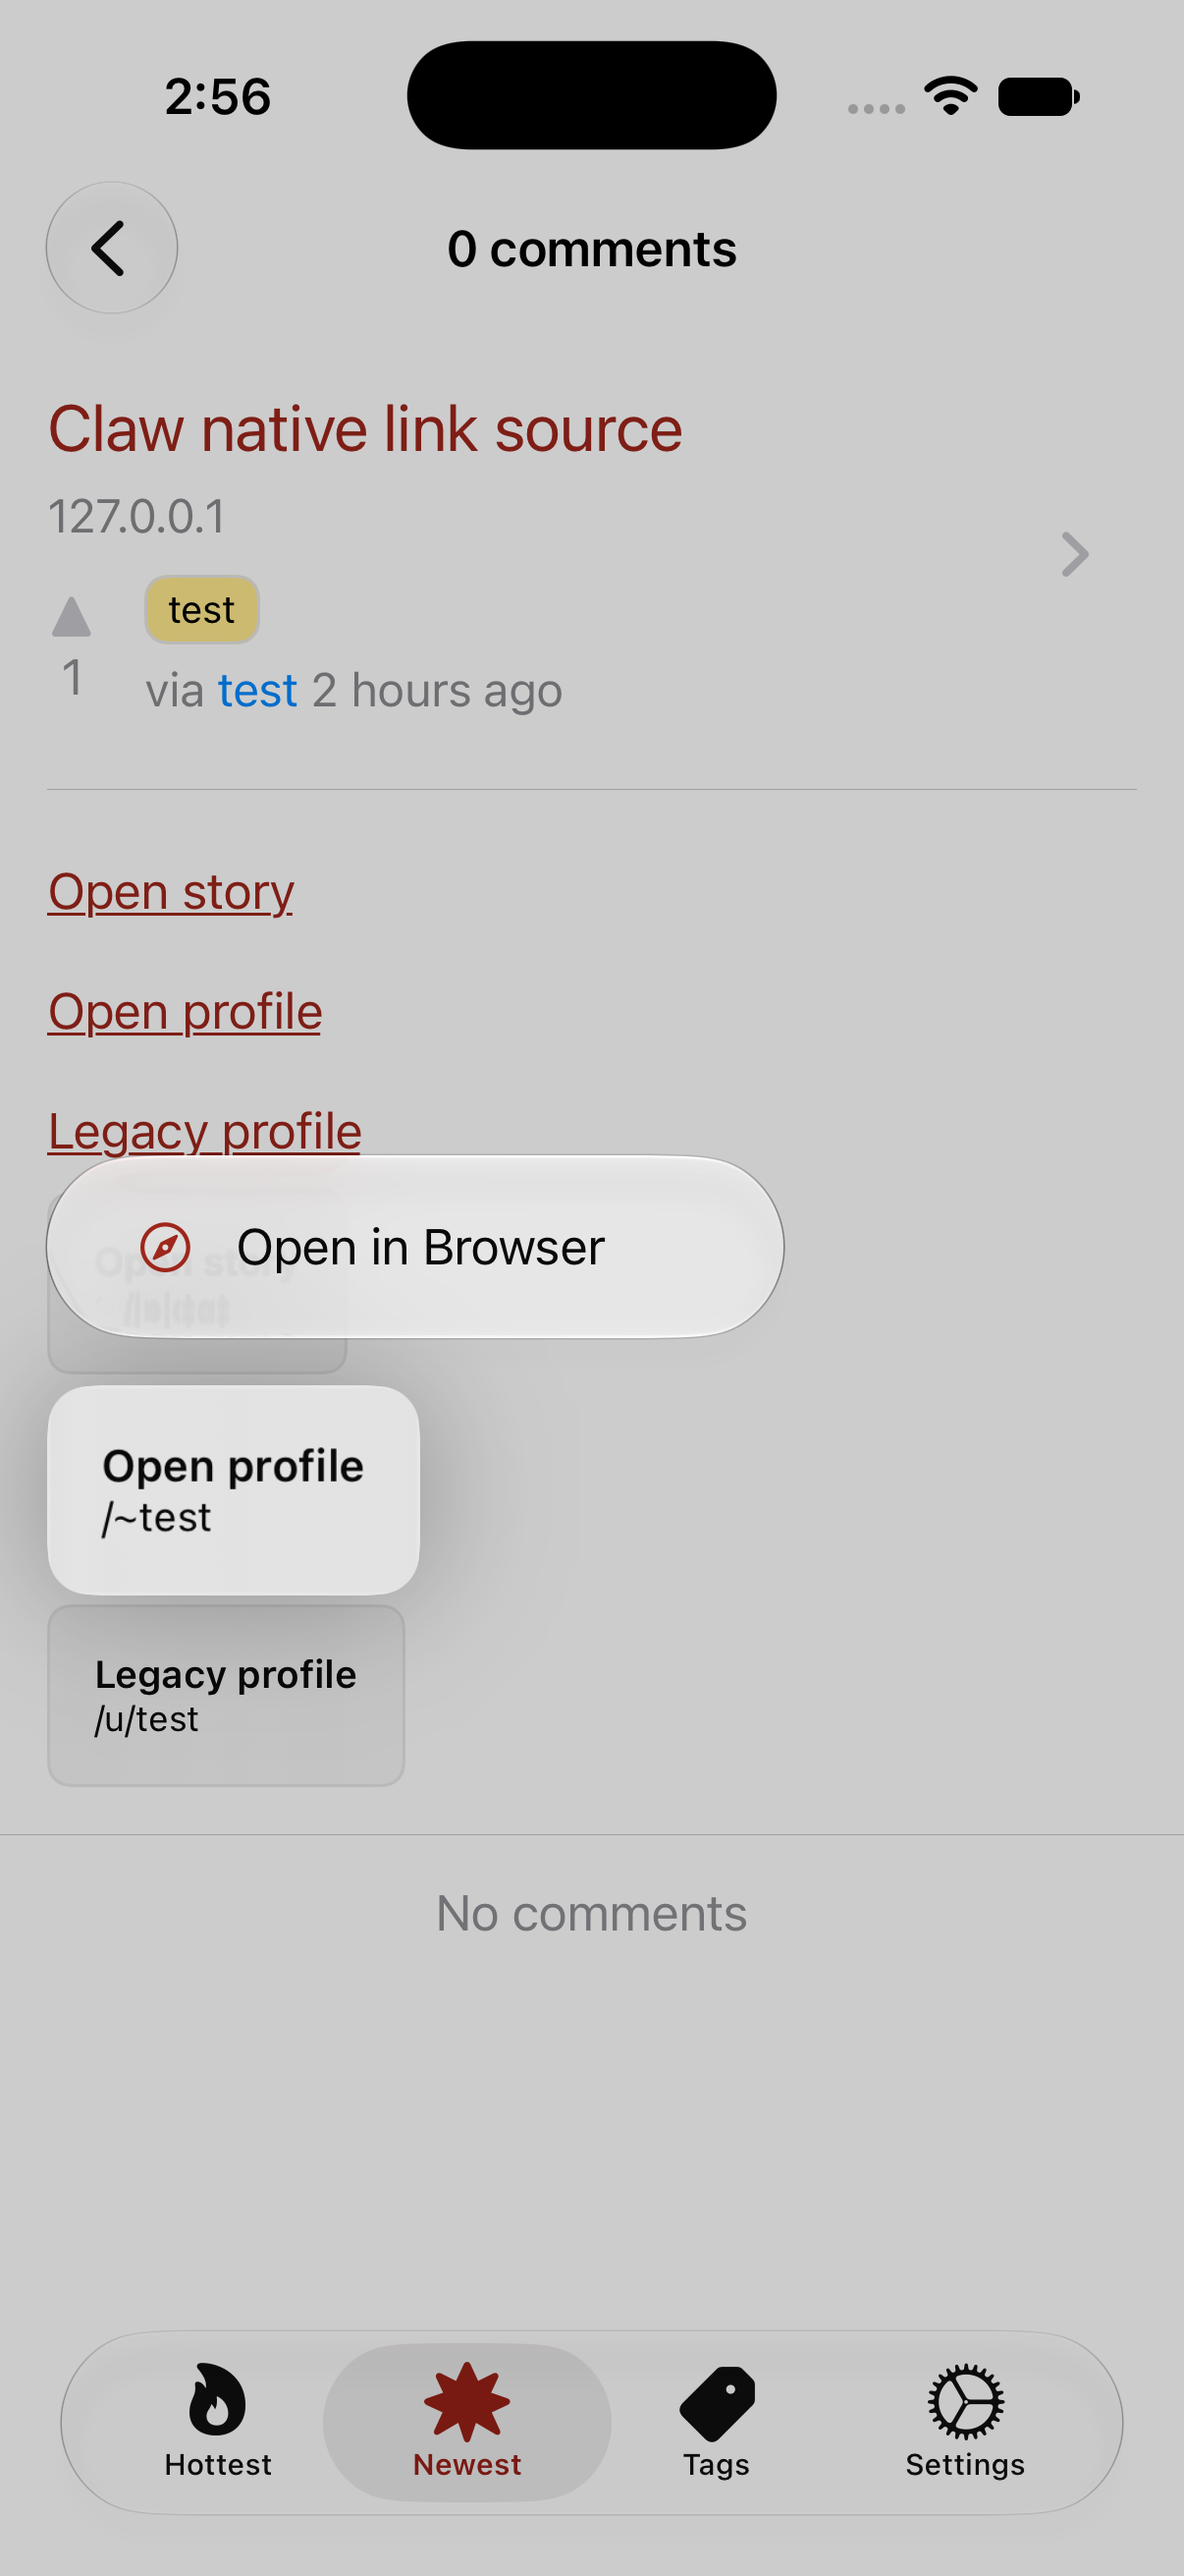
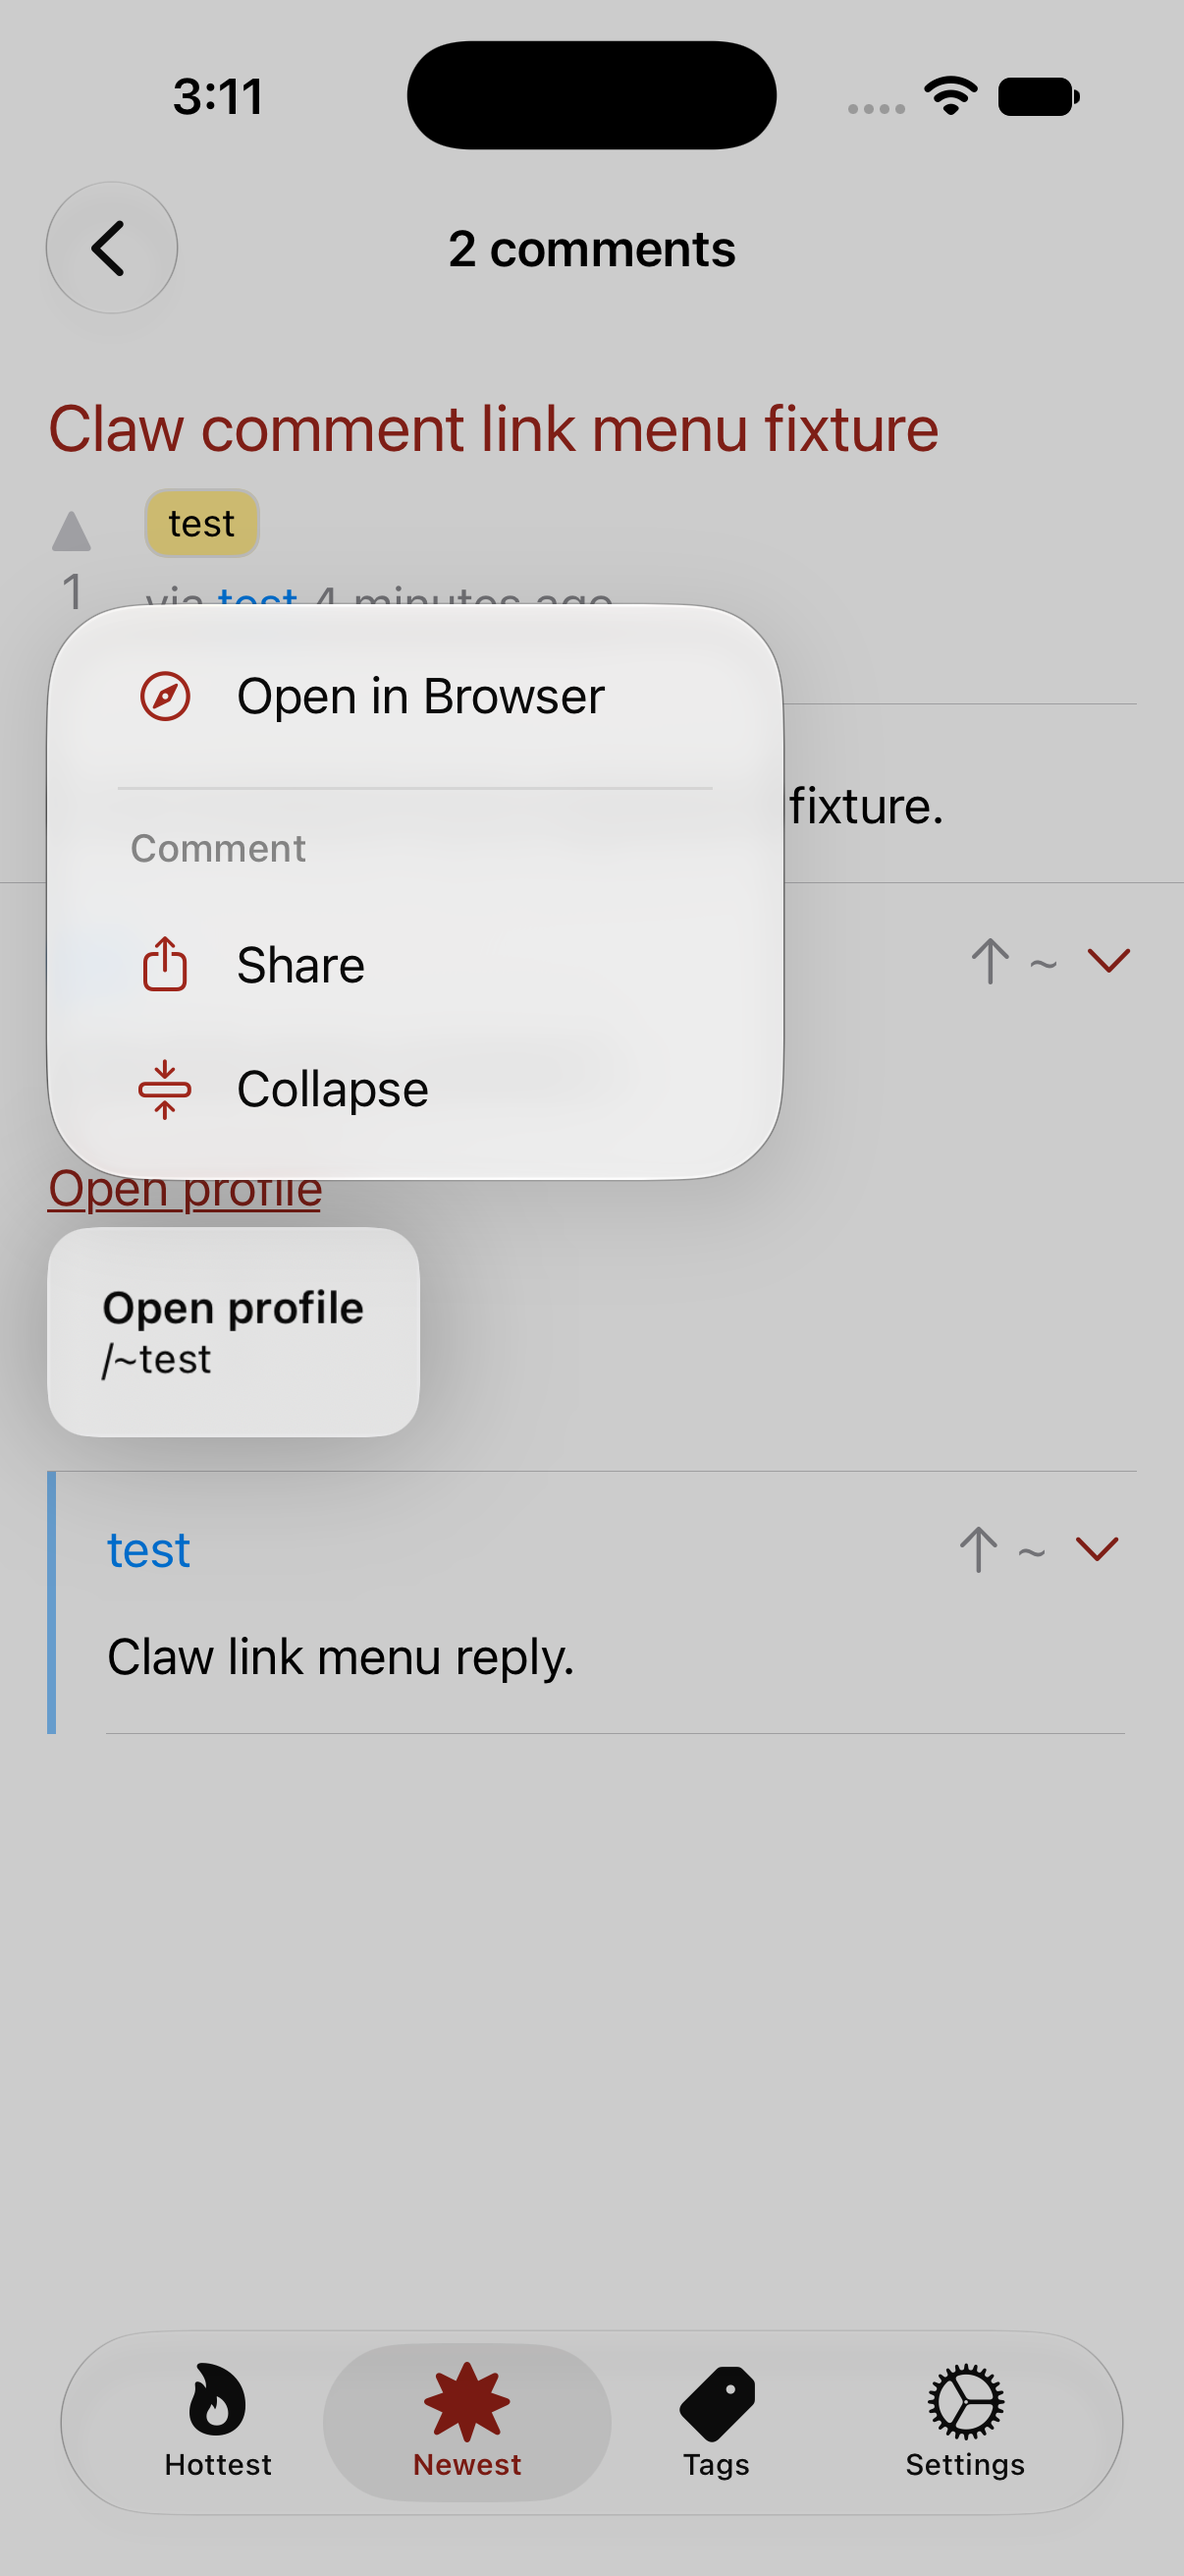
Preserve comment actions in link context menus

diff --git a/claw/CommentHierarchy.swift b/claw/CommentHierarchy.swift
@@ -56,7 +56,7 @@ enum CommentThreadLayout {
 public struct HierarchyList<RowContent, HeaderContent>: View where RowContent: View, HeaderContent: View {
     let data: [CommentStructure]
     let header: (Comment) -> HeaderContent
-    let rowContent: (Comment) -> RowContent
+    let rowContent: (Comment, CommentContextMenu) -> RowContent
     var highlightedCommentID: String? = nil
     var rootDepth: Int = 0
     @State private var sharedComment: Comment?
@@ -91,7 +91,7 @@ private struct CommentThreadView<RowContent, HeaderContent>: View where RowConte
     let parent: CommentStructure
     let parentDepth: Int
     let header: (Comment) -> HeaderContent
-    let rowContent: (Comment) -> RowContent
+    let rowContent: (Comment, CommentContextMenu) -> RowContent
 
     var body: some View {
         ScrollView {
@@ -106,7 +106,7 @@ private struct CommentThreadView<RowContent, HeaderContent>: View where RowConte
 private struct CommentThreadRowView<RowContent, HeaderContent>: View where RowContent: View, HeaderContent: View {
     let row: CommentThreadRow
     let header: (Comment) -> HeaderContent
-    let rowContent: (Comment) -> RowContent
+    let rowContent: (Comment, CommentContextMenu) -> RowContent
     let highlighted: Bool
     @Binding var isExpanded: Bool
     @Binding var sharedComment: Comment?
@@ -130,7 +130,7 @@ private struct CommentThreadRowView<RowContent, HeaderContent>: View where RowCo
             }
             .padding(.vertical)
             if isExpanded {
-                rowContent(row.comment)
+                rowContent(row.comment, commentMenu)
                     .padding([.leading, .bottom])
                 if let parent = row.continuation {
                     NavigationLink {
@@ -159,22 +159,37 @@ private struct CommentThreadRowView<RowContent, HeaderContent>: View where RowCo
                 rootDepth: row.commentDepth - row.indentLevel)
         }
         .contentShape(Rectangle())
-        .contextMenu {
-            Button {
-                sharedComment = row.comment
-            } label: {
-                Label("Share", systemImage: "square.and.arrow.up")
-            }
-            Button(action: toggleExpanded) {
-                Label(isExpanded ? "Collapse" : "Expand",
-                    systemImage: isExpanded ? "rectangle.compress.vertical" : "rectangle.expand.vertical")
-            }
-        }
+        .contextMenu { commentMenu }
         .onTapGesture(perform: toggleExpanded)
+    }
+
+    private var commentMenu: CommentContextMenu {
+        CommentContextMenu(comment: row.comment, isExpanded: $isExpanded, sharedComment: $sharedComment)
     }
 
     private func toggleExpanded() {
         withAnimation { isExpanded.toggle() }
+    }
+}
+
+/// The same actions are available from the comment body and its link blocks.
+struct CommentContextMenu: View {
+    let comment: Comment
+    @Binding var isExpanded: Bool
+    @Binding var sharedComment: Comment?
+
+    var body: some View {
+        Button {
+            sharedComment = comment
+        } label: {
+            Label("Share", systemImage: "square.and.arrow.up")
+        }
+        Button {
+            withAnimation { isExpanded.toggle() }
+        } label: {
+            Label(isExpanded ? "Collapse" : "Expand",
+                  systemImage: isExpanded ? "rectangle.compress.vertical" : "rectangle.expand.vertical")
+        }
     }
 }
 

diff --git a/clawUITests/clawUITests.swift b/clawUITests/clawUITests.swift
@@ -546,6 +546,42 @@ class clawUITests: XCTestCase {
         XCTAssertTrue(app.webViews.firstMatch.waitForExistence(timeout: 30))
     }
 
+    func testCommentAndLinkContextMenusShareActions() throws {
+        let app = configuredApplication()
+        try openLocalStory("lnkctx", in: app)
+        let body = app.staticTexts["Claw link menu comment."]
+        let reply = app.staticTexts["Claw link menu reply."]
+        let toggle = app.buttons["toggle-comment-lnkcom"]
+        XCTAssertTrue(body.waitForExistence(timeout: 30))
+        XCTAssertTrue(reply.exists)
+
+        // The comment body's existing menu still shares and collapses the comment.
+        body.press(forDuration: 1)
+        XCTAssertTrue(app.buttons["Share"].waitForExistence(timeout: 5))
+        XCTAssertTrue(app.buttons["Collapse"].exists)
+        XCTAssertFalse(app.buttons["Open in Browser"].exists)
+        app.buttons["Collapse"].tap()
+        XCTAssertFalse(body.exists)
+        XCTAssertFalse(reply.exists)
+        toggle.tap()
+        XCTAssertTrue(body.waitForExistence(timeout: 5))
+
+        // A link menu includes both the link action and its parent comment actions.
+        let link = app.staticTexts["/~test"]
+        link.press(forDuration: 1)
+        XCTAssertTrue(app.buttons["Open in Browser"].waitForExistence(timeout: 5))
+        XCTAssertTrue(app.buttons["Share"].exists)
+        XCTAssertTrue(app.buttons["Collapse"].exists)
+        app.buttons["Collapse"].tap()
+        XCTAssertFalse(body.exists)
+        XCTAssertFalse(reply.exists)
+        toggle.tap()
+        XCTAssertTrue(link.waitForExistence(timeout: 5))
+        link.press(forDuration: 1)
+        app.buttons["Share"].tap()
+        XCTAssertTrue(app.cells["Copy"].waitForExistence(timeout: 10))
+    }
+
     func testCommentLinkRefocusesAfterViewAll() throws {
         try requireCommentFixture()
         let app = commentFixtureApplication()

diff --git a/claw/Stories/StoryView.swift b/claw/Stories/StoryView.swift
@@ -299,7 +299,7 @@ struct StoryView: View {
                     Spacer()
                     commentVoteButton(comment)
                 }
-            }, rowContent: { comment in
+            }, rowContent: { comment, commentMenu in
                 VStack(alignment: .leading, spacing: 8.0) {
                     let html = HTMLView(html: comment.comment.trimmingCharacters(in: .whitespacesAndNewlines))
                     HStack {
@@ -307,7 +307,8 @@ struct StoryView: View {
                         Spacer(minLength: 0) // need this cause there is a Vstack with center alignment somewhere
                     }
                     ForEach(html.links, id: \.self) { link in
-                        URLView(link: link, pageURL: resolvedStoryURL).environmentObject(urlToOpen)
+                        URLView(link: link, pageURL: resolvedStoryURL, commentMenu: commentMenu)
+                            .environmentObject(urlToOpen)
                     }
                     if canInteract {
                         commentActions(comment)

diff --git a/claw/URLView.swift b/claw/URLView.swift
@@ -10,6 +10,7 @@ import SwiftUI
 struct URLView: View {
     var link: HTMLLink
     var pageURL: URL? = nil
+    var commentMenu: CommentContextMenu? = nil
     @Environment(Settings.self) private var settings
     @Environment(\.openURL) private var openURL
     @EnvironmentObject var urlToOpen: ObservableURL
@@ -51,6 +52,9 @@ struct URLView: View {
                         UIApplication.shared.open(url)
                     }
                 }
+            }
+            if let commentMenu {
+                Section("Comment") { commentMenu }
             }
         }
     }

diff --git a/claw/Settings/CommentColorPicker.swift b/claw/Settings/CommentColorPicker.swift
@@ -31,7 +31,7 @@ struct RedactedCommentColorPickerPreview: View {
                     }
                     .foregroundColor(.gray)
                     .redacted(reason: .placeholder)
-                }, rowContent: { comment in
+                }, rowContent: { comment, _ in
                     Text(comment.comment)
                         .redacted(reason: .placeholder)
                 })

diff --git a/.ci/seed-native-link-fixture.rb b/.ci/seed-native-link-fixture.rb
@@ -28,3 +28,16 @@ link_story("lnksrc", "Claw native link source", user, tag,
   description: "[Open story](/s/lnktgt)\n\n[Open profile](/~test)\n\n[Legacy profile](/u/test)")
 link_story("lnkusr", "Claw profile link source", user, tag,
   url: "#{base}~test")
+link_story("lnkctx", "Claw comment link menu fixture", user, tag,
+  description: "Local comment menu regression fixture.")
+story = Story.find_by!(short_id: "lnkctx")
+comment = Comment.find_or_initialize_by(short_id: "lnkcom")
+comment.assign_attributes(story: story, user: user,
+  comment: "Claw link menu comment.\n\n[Open profile](/~test)")
+comment.save!
+comment.update_columns(short_id: "lnkcom")
+reply = Comment.find_or_initialize_by(short_id: "lnkrpl")
+reply.assign_attributes(story: story, user: user, parent_comment: comment,
+  comment: "Claw link menu reply.")
+reply.save!
+reply.update_columns(short_id: "lnkrpl")

diff --git a/README.md b/README.md
@@ -130,6 +130,8 @@ or `/u/<username>`), and comments open inside Claw. This includes story title,
 domain, and chevron taps when the submitted URL points to a supported Lobsters
 page. Long-press a link block and choose **Open in Browser** to use the selected
 browser for that link instead.
+Inside comments, that menu also includes the comment's **Share** and **Collapse**
+actions. Long-pressing the comment body retains its existing menu.
 
 The integration workflow seeds and tests native story/profile navigation and
 the browser override. To run these checks locally, seed a disposable server
@@ -141,5 +143,6 @@ LOBSTERS_BASE_URL=http://localhost:3007 COMPOSE_PROJECT_NAME=claw-lobsters-<uniq
   < /path/to/claw/.ci/seed-native-link-fixture.rb
 ```
 
-Run `testStoryAndUserLinksOpenNatively` and `testNativeLinkCanOpenInBrowser` in
+Run `testStoryAndUserLinksOpenNatively`, `testNativeLinkCanOpenInBrowser`, and
+`testCommentAndLinkContextMenusShareActions` in
 `clawUITests` with `CLAW_UI_TEST_BASE_URL` set to the same URL in `xcodebuild`.
